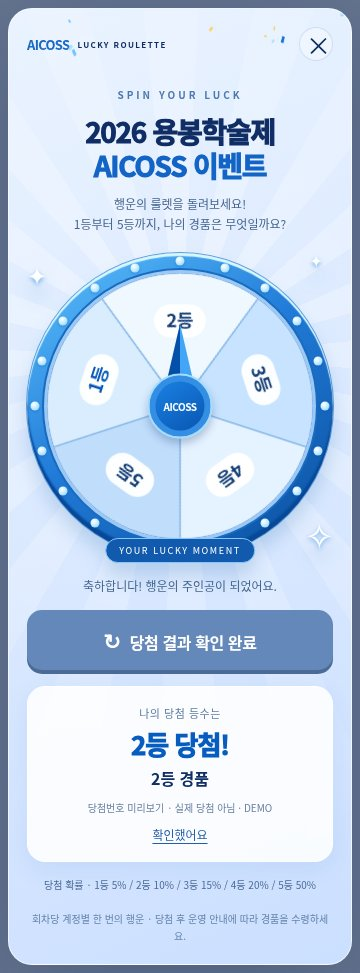
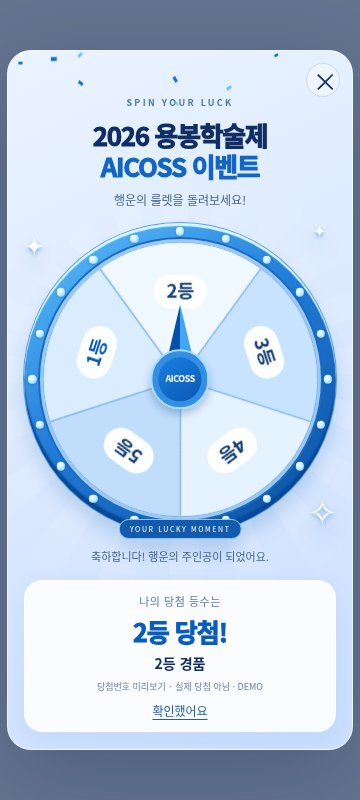
Enable guest roulette, fit mobile viewports and remove requested labels and odds notice

diff --git a/prize-draw/prize-draw.html b/prize-draw/prize-draw.html
@@ -1,13 +1,24 @@
 <!doctype html>
 <html lang="ko"><head><meta charset="utf-8"><meta name="viewport" content="width=device-width,initial-scale=1"><title>2026 용봉학술제 AICOSS 이벤트</title>
 <style>
-:root{color-scheme:light;--navy:#102e65;--blue:#1368cf;--sky:#dceaff}*{box-sizing:border-box}body{margin:0;font-family:"Pretendard","Apple SD Gothic Neo","Malgun Gothic",sans-serif;background:transparent;color:var(--navy)}button{font:inherit;cursor:pointer}button:focus-visible{outline:3px solid #001f57;outline-offset:5px}.backdrop{min-height:100vh;display:grid;place-items:center;padding:16px;background:#071e4b9e;backdrop-filter:blur(7px)}.card{isolation:isolate;position:relative;width:min(100%,520px);overflow:hidden;border-radius:30px;background:linear-gradient(155deg,#eaf3ff,#cbdfff);border:1px solid #ffffffb0;box-shadow:0 24px 100px #051f4c40;padding:22px 26px 24px}.rays{position:absolute;z-index:-1;width:1200px;height:1200px;left:50%;top:425px;transform:translate(-50%,-50%);background:repeating-conic-gradient(from -6deg,#ffffff65 0deg 9deg,transparent 9deg 18deg);mask-image:radial-gradient(circle,#000 0,transparent 62%);pointer-events:none}.top{display:flex;align-items:center;justify-content:space-between}.brand{font-size:10px;font-weight:800;letter-spacing:1.9px;display:flex;gap:8px;align-items:center}.brand b{font-size:15px;letter-spacing:-.7px;color:#1769c5}.close{width:34px;height:34px;border:1px solid #7ea6d84d;border-radius:50%;background:#ffffff65;color:var(--navy);font-size:25px;line-height:28px}.heading{text-align:center;margin:22px 0 8px}.eyebrow{font-size:10px;letter-spacing:3px;color:#4f78b0;font-weight:800}.heading h1{font-size:35px;letter-spacing:-1.8px;line-height:1.2;font-weight:950;margin:11px 0 12px;word-break:keep-all}.heading h1 span:last-child{color:#1264c7}.intro{font-size:13px;color:#45658f;line-height:1.65;margin:0}.wheel-stage{position:relative;width:min(100%,414px);aspect-ratio:1;margin:20px auto 18px;filter:drop-shadow(0 13px 9px #145da330)}.rim{position:absolute;inset:0;border-radius:50%;background:linear-gradient(145deg,#60c4ff,#217bd8 46%,#094d9c);box-shadow:inset 0 3px 1px #d9f7ff,inset 0 -6px 2px #084898,0 0 0 1px #1974cbaa;padding:21px}.wheel-inner{width:100%;height:100%;border-radius:50%;overflow:hidden;background:#dfefff;border:3px solid #9bc8f4;box-shadow:0 0 0 2px #186bc0,inset 0 0 0 1px #2c6bb4;position:relative}.rotor{display:block;width:100%;height:100%;transform:rotate(0deg);will-change:transform}.bulbs{position:absolute;inset:0;pointer-events:none}.bulb{position:absolute;width:11px;height:11px;border-radius:50%;background:radial-gradient(circle at 35% 30%,white,#bce9ff 55%,#73bdff);box-shadow:0 1px 3px #03459245;transform:translate(-50%,-50%)}.hub{position:absolute;top:50%;left:50%;transform:translate(-50%,-50%);height:78px;width:78px;border-radius:50%;display:grid;place-items:center;background:linear-gradient(145deg,#1c86e9,#0751ac);box-shadow:inset 0 0 0 6px #348ee3,0 5px 8px #052c6d44;border:2px solid #a3dcff;color:white;font-size:12px;font-weight:900;letter-spacing:-.5px;z-index:3}.needle{position:absolute;bottom:calc(50% + 20px);left:50%;transform:translateX(-50%);width:36px;height:78px;background:linear-gradient(90deg,#0450a9 0 50%,#42a5f7 50%);clip-path:polygon(50% 0,100% 100%,0 100%);filter:drop-shadow(0 3px 2px #173d7a66);z-index:2}.star{position:absolute;font-size:24px;color:#ffffff;filter:drop-shadow(0 2px 2px #6eade8);pointer-events:none}.star.a{left:0;top:4px}.star.b{right:-1px;bottom:0;font-size:35px}.star.c{right:10px;top:-5px;font-size:16px}.status{text-align:center;font-size:12px;color:#45658f;min-height:20px;margin:8px 0 14px;line-height:1.6}.spin{display:block;width:100%;padding:17px;border:0;border-radius:15px;background:linear-gradient(110deg,#164eac,#146fd2);box-shadow:0 5px 0 #093c87,0 10px 20px #1657ab25;color:white;font-size:18px;font-weight:850;letter-spacing:-.4px}.spin:disabled{cursor:default;background:#6488b9;box-shadow:0 4px 0 #4b6b97}.spin:not(:disabled):active{transform:translateY(3px);box-shadow:0 2px 0 #093c87}.spin .icon{margin-right:9px;font-size:21px}.result{padding:18px 18px 16px;background:#ffffffe0;border:1px solid white;border-radius:18px;text-align:center;margin:16px 0 0;box-shadow:0 7px 25px #1e69bb15}.result[hidden]{display:none}.result .caption{font-size:11px;color:#5e7ba3;letter-spacing:.5px}.rank{font-size:29px;font-weight:950;margin:4px 0;color:#075cbf;letter-spacing:-1px}.prize{font-size:16px;font-weight:800;overflow-wrap:anywhere}.receipt{font-size:10px;color:#6b82a2;line-height:1.7;overflow-wrap:anywhere;margin:9px 0 0}.done{border:0;background:transparent;color:#235eaa;font-size:12px;text-decoration:underline;text-underline-offset:3px;margin-top:9px}.odds{text-align:center;font-size:10px;color:#4b6b98;line-height:1.7;margin:14px 0 0}.footer{text-align:center;font-size:10px;line-height:1.7;color:#6685ad;margin:17px 0 0}.confetti{position:absolute;inset:0;width:100%;height:100%;pointer-events:none;z-index:10}.error .status{background:#fff8e9;border:1px solid #efdcb0;padding:10px;border-radius:10px;color:#85602a}.error .spin{display:none}.error .wheel-stage{opacity:.7}.badge{position:absolute;left:50%;bottom:-4px;transform:translateX(-50%);font-size:9px;letter-spacing:1.6px;color:#fff;background:#125aad;padding:5px 13px;border-radius:20px;white-space:nowrap;border:1px solid #85c7fa;z-index:4}@media(max-width:420px){.backdrop{padding:8px}.card{padding:18px 18px 20px;border-radius:24px}.heading{margin-top:19px}.heading h1{font-size:28px;letter-spacing:-1.3px}.brand{font-size:8px;letter-spacing:1.4px}.brand b{font-size:13px}.intro{font-size:12px}.rim{padding:17px}.wheel-stage{margin:19px auto 17px}.hub{width:65px;height:65px;font-size:10px}.needle{height:65px;width:30px;bottom:calc(50% + 17px)}.bulb{height:9px;width:9px}.rays{top:350px}.spin{font-size:16px;padding:15px}.rank{font-size:26px}}@media(max-height:700px) and (min-width:421px){.backdrop{align-items:start}.wheel-stage{width:330px}.heading{margin-top:12px}.heading h1{font-size:30px}.card{padding-top:16px}}@media(prefers-reduced-motion:reduce){.rotor{transition:none!important}.confetti{display:none}}
+:root{color-scheme:light;--navy:#102e65;--blue:#1368cf;--sky:#dceaff}*{box-sizing:border-box}body{margin:0;font-family:"Pretendard","Apple SD Gothic Neo","Malgun Gothic",sans-serif;background:transparent;color:var(--navy)}button{font:inherit;cursor:pointer}button:focus-visible{outline:3px solid #001f57;outline-offset:5px}.backdrop{min-height:100vh;display:grid;place-items:center;padding:16px;background:#071e4b9e;backdrop-filter:blur(7px)}.card{isolation:isolate;position:relative;width:min(100%,520px);overflow:hidden;border-radius:30px;background:linear-gradient(155deg,#eaf3ff,#cbdfff);border:1px solid #ffffffb0;box-shadow:0 24px 100px #051f4c40;padding:22px 26px 24px}.rays{position:absolute;z-index:-1;width:1200px;height:1200px;left:50%;top:425px;transform:translate(-50%,-50%);background:repeating-conic-gradient(from -6deg,#ffffff65 0deg 9deg,transparent 9deg 18deg);mask-image:radial-gradient(circle,#000 0,transparent 62%);pointer-events:none}.top{display:flex;align-items:center;justify-content:space-between}.brand{font-size:10px;font-weight:800;letter-spacing:1.9px;display:flex;gap:8px;align-items:center}.brand b{font-size:15px;letter-spacing:-.7px;color:#1769c5}.close{width:34px;height:34px;border:1px solid #7ea6d84d;border-radius:50%;background:#ffffff65;color:var(--navy);font-size:25px;line-height:28px}.heading{text-align:center;margin:22px 0 8px}.eyebrow{font-size:10px;letter-spacing:3px;color:#4f78b0;font-weight:800}.heading h1{font-size:35px;letter-spacing:-1.8px;line-height:1.2;font-weight:950;margin:11px 0 12px;word-break:keep-all}.heading h1 span:last-child{color:#1264c7}.intro{font-size:13px;color:#45658f;line-height:1.65;margin:0}.wheel-stage{position:relative;width:min(100%,414px);aspect-ratio:1;margin:20px auto 18px;filter:drop-shadow(0 13px 9px #145da330)}.rim{position:absolute;inset:0;border-radius:50%;background:linear-gradient(145deg,#60c4ff,#217bd8 46%,#094d9c);box-shadow:inset 0 3px 1px #d9f7ff,inset 0 -6px 2px #084898,0 0 0 1px #1974cbaa;padding:21px}.wheel-inner{width:100%;height:100%;border-radius:50%;overflow:hidden;background:#dfefff;border:3px solid #9bc8f4;box-shadow:0 0 0 2px #186bc0,inset 0 0 0 1px #2c6bb4;position:relative}.rotor{display:block;width:100%;height:100%;transform:rotate(0deg);will-change:transform}.bulbs{position:absolute;inset:0;pointer-events:none}.bulb{position:absolute;width:11px;height:11px;border-radius:50%;background:radial-gradient(circle at 35% 30%,white,#bce9ff 55%,#73bdff);box-shadow:0 1px 3px #03459245;transform:translate(-50%,-50%)}.hub{position:absolute;top:50%;left:50%;transform:translate(-50%,-50%);height:78px;width:78px;border-radius:50%;display:grid;place-items:center;background:linear-gradient(145deg,#1c86e9,#0751ac);box-shadow:inset 0 0 0 6px #348ee3,0 5px 8px #052c6d44;border:2px solid #a3dcff;color:white;font-size:12px;font-weight:900;letter-spacing:-.5px;z-index:3}.needle{position:absolute;bottom:calc(50% + 20px);left:50%;transform:translateX(-50%);width:36px;height:78px;background:linear-gradient(90deg,#0450a9 0 50%,#42a5f7 50%);clip-path:polygon(50% 0,100% 100%,0 100%);filter:drop-shadow(0 3px 2px #173d7a66);z-index:2}.star{position:absolute;font-size:24px;color:#ffffff;filter:drop-shadow(0 2px 2px #6eade8);pointer-events:none}.star.a{left:0;top:4px}.star.b{right:-1px;bottom:0;font-size:35px}.star.c{right:10px;top:-5px;font-size:16px}.status{text-align:center;font-size:12px;color:#45658f;min-height:20px;margin:8px 0 14px;line-height:1.6}.spin{display:block;width:100%;padding:17px;border:0;border-radius:15px;background:linear-gradient(110deg,#164eac,#146fd2);box-shadow:0 5px 0 #093c87,0 10px 20px #1657ab25;color:white;font-size:18px;font-weight:850;letter-spacing:-.4px}.spin:disabled{cursor:default;background:#6488b9;box-shadow:0 4px 0 #4b6b97}.spin:not(:disabled):active{transform:translateY(3px);box-shadow:0 2px 0 #093c87}.spin .icon{margin-right:9px;font-size:21px}.result{padding:18px 18px 16px;background:#ffffffe0;border:1px solid white;border-radius:18px;text-align:center;margin:16px 0 0;box-shadow:0 7px 25px #1e69bb15}.result[hidden]{display:none}.result .caption{font-size:11px;color:#5e7ba3;letter-spacing:.5px}.rank{font-size:29px;font-weight:950;margin:4px 0;color:#075cbf;letter-spacing:-1px}.prize{font-size:16px;font-weight:800;overflow-wrap:anywhere}.receipt{font-size:10px;color:#6b82a2;line-height:1.7;overflow-wrap:anywhere;margin:9px 0 0}.done{border:0;background:transparent;color:#235eaa;font-size:12px;text-decoration:underline;text-underline-offset:3px;margin-top:9px}.odds{text-align:center;font-size:10px;color:#4b6b98;line-height:1.7;margin:14px 0 0}.footer{text-align:center;font-size:10px;line-height:1.7;color:#6685ad;margin:17px 0 0}.confetti{position:absolute;inset:0;width:100%;height:100%;pointer-events:none;z-index:10}.error .status{background:#fff8e9;border:1px solid #efdcb0;padding:10px;border-radius:10px;color:#85602a}.error .spin,.card.complete .spin{display:none}.error .wheel-stage{opacity:.7}.badge{position:absolute;left:50%;bottom:-4px;transform:translateX(-50%);font-size:9px;letter-spacing:1.6px;color:#fff;background:#125aad;padding:5px 13px;border-radius:20px;white-space:nowrap;border:1px solid #85c7fa;z-index:4}@media(max-width:420px){.backdrop{padding:8px}.card{padding:18px 18px 20px;border-radius:24px}.heading{margin-top:19px}.heading h1{font-size:28px;letter-spacing:-1.3px}.brand{font-size:8px;letter-spacing:1.4px}.brand b{font-size:13px}.intro{font-size:12px}.rim{padding:17px}.wheel-stage{margin:19px auto 17px}.hub{width:65px;height:65px;font-size:10px}.needle{height:65px;width:30px;bottom:calc(50% + 17px)}.bulb{height:9px;width:9px}.rays{top:350px}.spin{font-size:16px;padding:15px}.rank{font-size:26px}}@media(max-height:700px) and (min-width:421px){.backdrop{align-items:start}.wheel-stage{width:330px}.heading{margin-top:12px}.heading h1{font-size:30px}.card{padding-top:16px}}@media(prefers-reduced-motion:reduce){.rotor{transition:none!important}.confetti{display:none}}
+
+html,body{height:100%;width:100%;overflow:hidden}.backdrop{height:100vh;height:100dvh;min-height:0;padding:clamp(6px,2vmin,16px);overflow:hidden}.card{max-height:100%;overflow-x:hidden;overflow-y:auto;overscroll-behavior:contain;scrollbar-width:thin;scrollbar-color:#9bbfe9 transparent;padding-top:20px;padding-bottom:20px}.top{position:absolute;top:12px;right:12px;z-index:12}.heading{margin-top:22px}.wheel-stage{flex:none}.rim{padding:5%}.hub{height:19%;width:19%;font-size:clamp(8px,2.5vw,12px)}.needle{bottom:55%;width:9%;height:19%}.bulb{width:2.65%;height:2.65%}.rays{width:100%;height:100%;inset:0;transform:none;background:repeating-conic-gradient(from -6deg at 50% 45%,#ffffff65 0deg 9deg,transparent 9deg 18deg)}.badge{font-size:8px;padding:4px 10px}.odds{margin-top:14px}.result{margin-top:13px}.intro{font-size:12px}
+@media(max-width:420px){.card{padding:14px 16px 17px}.heading{margin:22px 0 4px}.heading h1{font-size:clamp(23px,7.2vw,28px);margin:8px 0}.eyebrow{font-size:9px;letter-spacing:2.3px}.wheel-stage{margin-top:14px;margin-bottom:13px}.status{font-size:11px;margin:6px 0 10px}.spin{padding:13px;font-size:16px}.odds{font-size:9px;margin-top:12px}.result{padding:12px 10px 10px;margin-top:12px}.rank{font-size:25px}.prize{font-size:14px}.receipt{margin-top:6px;font-size:9px}.done{margin-top:6px}.badge{font-size:7px}}
+@media(max-height:500px) and (min-width:540px){.card{width:min(100%,850px);display:grid;grid-template-columns:minmax(180px,.95fr) 1fr;gap:7px 18px;padding:16px 25px}.top{display:block}.heading{grid-column:2;margin:9px 0 0}.heading .eyebrow{display:none}.heading h1{font-size:23px;margin:0 0 4px}.intro{font-size:10px}.wheel-stage{grid-column:1;grid-row:1 / span 5;width:min(100%,calc(100dvh - 58px));margin:auto}.status{grid-column:2;margin:0;font-size:10px}.spin{grid-column:2;padding:10px;font-size:14px}.result{grid-column:2;padding:8px;margin:0}.rank{font-size:22px}.prize{font-size:12px}.receipt{font-size:8px;margin-top:3px}.done{font-size:10px;margin-top:3px}.odds{grid-column:2;margin:0;font-size:9px}}
 </style></head><body>
-<div class="backdrop"><main class="card" role="dialog" aria-modal="true" aria-labelledby="title"><div class="rays"></div><header class="top"><div class="brand"><b>AICOSS</b><span>LUCKY ROULETTE</span></div><button class="close" aria-label="팝업 닫기">×</button></header><div class="heading"><span class="eyebrow">SPIN YOUR LUCK</span><h1 id="title"><span>2026 용봉학술제</span> <span style="display:block">AICOSS 이벤트</span></h1><p class="intro">행운의 룰렛을 돌려보세요!<br>1등부터 5등까지, 나의 경품은 무엇일까요?</p></div><div class="wheel-stage"><span class="star a" aria-hidden="true">✦</span><span class="star b" aria-hidden="true">✧</span><span class="star c" aria-hidden="true">✦</span><div class="rim"><div class="wheel-inner"><svg id="wheel" class="rotor" viewBox="0 0 400 400" role="img" aria-label="1등, 2등, 3등, 4등, 5등으로 동일하게 5분할된 원형 룰렛"></svg></div></div><div class="bulbs" aria-hidden="true"></div><div class="needle" aria-hidden="true"></div><div class="hub" aria-hidden="true">AICOSS</div><div class="badge" aria-hidden="true">YOUR LUCKY MOMENT</div></div><div class="status" id="statusText" role="status" aria-live="polite">이벤트 정보를 확인하고 있어요…</div><button id="spinButton" class="spin" disabled><span class="icon" aria-hidden="true">↻</span><span id="buttonText">준비 중…</span></button><section id="result" class="result" hidden aria-live="polite"><div class="caption" id="resultCaption">나의 당첨 등수는</div><div id="rank" class="rank"></div><div id="prize" class="prize"></div><p id="receipt" class="receipt"></p><button class="done">확인했어요</button></section><p class="odds">당첨 확률 · 1등 5% / 2등 10% / 3등 15% / 4등 20% / 5등 50%</p><p class="footer">회차당 계정별 한 번의 행운 · 당첨 후 운영 안내에 따라 경품을 수령하세요.</p><canvas class="confetti" aria-hidden="true"></canvas></main></div>
+<div class="backdrop"><main class="card" role="dialog" aria-modal="true" aria-labelledby="title"><div class="rays"></div><header class="top"><button class="close" aria-label="팝업 닫기">×</button></header><div class="heading"><span class="eyebrow">SPIN YOUR LUCK</span><h1 id="title"><span>2026 용봉학술제</span> <span style="display:block">AICOSS 이벤트</span></h1><p class="intro">행운의 룰렛을 돌려보세요!</p></div><div class="wheel-stage"><span class="star a" aria-hidden="true">✦</span><span class="star b" aria-hidden="true">✧</span><span class="star c" aria-hidden="true">✦</span><div class="rim"><div class="wheel-inner"><svg id="wheel" class="rotor" viewBox="0 0 400 400" role="img" aria-label="1등, 2등, 3등, 4등, 5등으로 동일하게 5분할된 원형 룰렛"></svg></div></div><div class="bulbs" aria-hidden="true"></div><div class="needle" aria-hidden="true"></div><div class="hub" aria-hidden="true">AICOSS</div><div class="badge" aria-hidden="true">YOUR LUCKY MOMENT</div></div><div class="status" id="statusText" role="status" aria-live="polite">이벤트 정보를 확인하고 있어요…</div><button id="spinButton" class="spin" disabled><span class="icon" aria-hidden="true">↻</span><span id="buttonText">준비 중…</span></button><section id="result" class="result" hidden aria-live="polite"><div class="caption" id="resultCaption">나의 당첨 등수는</div><div id="rank" class="rank"></div><div id="prize" class="prize"></div><p id="receipt" class="receipt"></p><button class="done">확인했어요</button></section><canvas class="confetti" aria-hidden="true"></canvas></main></div>
 <script>
 (function(){'use strict';
 var wheel=document.getElementById('wheel'),button=document.getElementById('spinButton'),buttonText=document.getElementById('buttonText'),card=document.querySelector('.card'),status=document.getElementById('statusText');
 var reduced=window.matchMedia('(prefers-reduced-motion: reduce)').matches,state='loading',requested=false,resultData=null,timer=null,fallback=null,received=false,confettiFrame=0;
+function fitLayout(){
+var stage=document.querySelector('.wheel-stage');if(window.matchMedia('(max-height:500px) and (min-width:540px)').matches){stage.style.width='';return;}
+var viewport=window.visualViewport?window.visualViewport.height:window.innerHeight,back=getComputedStyle(document.querySelector('.backdrop')),cs=getComputedStyle(card),remaining=viewport-parseFloat(back.paddingTop)-parseFloat(back.paddingBottom)-parseFloat(cs.paddingTop)-parseFloat(cs.paddingBottom)-4;
+Array.from(card.children).forEach(function(el){if(el===stage||el.hidden)return;var st=getComputedStyle(el);if(st.position==='absolute'||st.position==='fixed'||st.display==='none')return;remaining-=el.getBoundingClientRect().height+(parseFloat(st.marginTop)||0)+(parseFloat(st.marginBottom)||0);});
+var ss=getComputedStyle(stage);remaining-=(parseFloat(ss.marginTop)||0)+(parseFloat(ss.marginBottom)||0);var width=card.clientWidth-parseFloat(cs.paddingLeft)-parseFloat(cs.paddingRight);
+stage.style.width=Math.max(132,Math.min(414,width,remaining))+'px';}
+window.addEventListener('resize',fitLayout);if(window.visualViewport)window.visualViewport.addEventListener('resize',fitLayout);requestAnimationFrame(fitLayout);
 var ns='http://www.w3.org/2000/svg',fills=['#d9edff','#eff7ff','#c7e3ff','#e5f2ff','#c0ddfb'];
 function svg(tag,attrs,parent){var el=document.createElementNS(ns,tag);Object.keys(attrs).forEach(function(k){el.setAttribute(k,attrs[k]);});(parent||wheel).appendChild(el);return el;}
 function point(deg,r){var a=deg*Math.PI/180;return [200+Math.cos(a)*r,200+Math.sin(a)*r];}
@@ -17,9 +28,9 @@ function send(type){window.parent.postMessage({type:type},'*');}
 function close(){clearTimeout(timer);clearTimeout(fallback);cancelAnimationFrame(confettiFrame);state='closed';send('close');if(window.parent===window)document.querySelector('.backdrop').hidden=true;}
 document.querySelector('.close').onclick=close;document.querySelector('.done').onclick=close;document.querySelector('.close').focus();
 document.addEventListener('keydown',function(e){if(e.key==='Escape')close();if(e.key==='Tab'){var controls=[document.querySelector('.close')];if(!button.disabled&&button.offsetParent)controls.push(button);if(!document.getElementById('result').hidden)controls.push(document.querySelector('.done'));var first=controls[0],last=controls[controls.length-1];if(e.shiftKey&&document.activeElement===first){e.preventDefault();last.focus();}else if(!e.shiftKey&&document.activeElement===last){e.preventDefault();first.focus();}}});
-function notice(message){if(state==='closed'||state==='done')return;clearTimeout(timer);clearTimeout(fallback);state='error';card.classList.add('error');status.textContent=message;button.disabled=true;}
+function notice(message){if(state==='closed'||state==='done')return;clearTimeout(timer);clearTimeout(fallback);state='error';card.classList.add('error');status.textContent=message;button.disabled=true;fitLayout();}
 function celebrate(){if(reduced)return;var canvas=document.querySelector('.confetti'),ctx=canvas.getContext('2d'),w=card.clientWidth,h=card.clientHeight,dpr=Math.min(devicePixelRatio||1,2);canvas.width=w*dpr;canvas.height=h*dpr;ctx.scale(dpr,dpr);var colors=['#1672d6','#71c5ff','#fff','#acdfff','#f8d56c'];var bits=Array.from({length:90},function(_,i){return{x:Math.random()*w,y:-20-Math.random()*h*.7,vx:(Math.random()-.5)*1.8,vy:2+Math.random()*3,size:4+Math.random()*5,a:Math.random()*6,c:colors[i%colors.length]};});var start=performance.now(),last=start;function paint(t){if(state==='closed')return;var dt=Math.min(2,(t-last)/16.67);last=t;ctx.clearRect(0,0,w,h);bits.forEach(function(b){b.x+=b.vx*dt;b.y+=b.vy*dt;b.a+=.045*dt;ctx.save();ctx.translate(b.x,b.y);ctx.rotate(b.a);ctx.fillStyle=b.c;ctx.fillRect(-b.size/2,-b.size/2,b.size,b.size*.55);ctx.restore();});if(t-start<4300)confettiFrame=requestAnimationFrame(paint);else ctx.clearRect(0,0,w,h);}confettiFrame=requestAnimationFrame(paint);}
-function complete(d){if(state==='closed')return;clearTimeout(fallback);state='done';document.getElementById('resultCaption').textContent=d.repeated?'이미 당첨된 나의 경품':'나의 당첨 등수는';document.getElementById('rank').textContent=d.rank+' 당첨!';document.getElementById('prize').textContent=d.prize;document.getElementById('receipt').textContent='당첨번호 '+d.receipt+' · '+d.date;document.getElementById('result').hidden=false;status.textContent=d.repeated?'이전에 확인한 당첨 결과입니다.':'축하합니다! 행운의 주인공이 되었어요.';buttonText.textContent='당첨 결과 확인 완료';if(!d.repeated)celebrate();}
+function complete(d){if(state==='closed')return;clearTimeout(fallback);state='done';card.classList.add('complete');document.getElementById('resultCaption').textContent=d.repeated?'이미 당첨된 나의 경품':'나의 당첨 등수는';document.getElementById('rank').textContent=d.rank+' 당첨!';document.getElementById('prize').textContent=d.prize;document.getElementById('receipt').textContent='당첨번호 '+d.receipt+' · '+d.date;document.getElementById('result').hidden=false;fitLayout();status.textContent=d.repeated?'이전에 확인한 당첨 결과입니다.':'축하합니다! 행운의 주인공이 되었어요.';buttonText.textContent='당첨 결과 확인 완료';if(!d.repeated)celebrate();}
 function showResult(d){if(resultData||state==='closed'||state==='error')return;var index=Number(d.ball)-1;if(!Number.isInteger(index)||index<0||index>4){notice('당첨 결과를 확인할 수 없습니다. 창을 닫고 다시 확인해주세요.');return;}if(!requested&&!d.repeated)return;resultData=d;clearTimeout(fallback);var target=(360-index*72)%360;if(d.repeated||reduced){wheel.style.transition='none';wheel.style.transform='rotate('+target+'deg)';complete(d);return;}state='spinning';status.textContent='행운의 룰렛이 돌아갑니다…';buttonText.textContent='두근두근, 룰렛 회전 중';wheel.style.transition='transform 3000ms cubic-bezier(.16,.8,.18,1)';wheel.style.transform='rotate('+(1800+target)+'deg)';function stop(e){if(e&&e.target!==wheel)return;wheel.removeEventListener('transitionend',stop);if(state==='spinning'){clearTimeout(timer);complete(d);}}wheel.addEventListener('transitionend',stop);timer=setTimeout(function(){stop();},3100);}
 button.onclick=function(){if(state!=='idle'||requested)return;requested=true;state='waiting';button.disabled=true;buttonText.textContent='추첨 결과 확인 중…';status.textContent='잠시만 기다려주세요.';send('spin');fallback=setTimeout(function(){notice('결과 확인이 지연되고 있어요. 창을 닫고 오브젝트에서 다시 확인해주세요.');},25000);if(window.parent===window&&new URLSearchParams(location.search).get('preview')==='1'){setTimeout(function(){window.postMessage({type:'result',rank:'2등',ball:'2',prize:'2등 경품',receipt:'미리보기 · 실제 당첨 아님',date:'DEMO',repeated:false},'*');},120);}};
 window.addEventListener('message',function(e){if(e.source!==window.parent||state==='closed')return;var d=e.data;if(!d||typeof d!=='object')return;if(d.type==='notice'){received=true;notice(String(d.message||'잠시 후 다시 시도해주세요.'));return;}if(d.type==='loading'){received=true;return;}if(d.type==='idle'){received=true;if(!requested&&!resultData){state='idle';status.textContent='준비가 되셨나요? 버튼을 눌러 행운을 확인하세요.';buttonText.textContent='룰렛 돌리기';button.disabled=false;}return;}if(d.type==='mixing'){received=true;return;}if(d.type==='result'&&typeof d.rank==='string'&&typeof d.prize==='string'&&typeof d.receipt==='string'&&typeof d.date==='string'){received=true;showResult(d);}});

diff --git a/prize-draw/main.js b/prize-draw/main.js
@@ -32,6 +32,7 @@ var PRIZE_CONFIG = {
     var resetTickets = Object.create(null), ticketSerial = 0;
     var popups = Object.create(null);
     var exports = Object.create(null);
+    var guestIds = Object.create(null), guestSequence = 0;
     var hasOwn = function (o, k) { return Object.prototype.hasOwnProperty.call(o, k); };
     function object(o) { return o && typeof o === "object" && !Array.isArray(o); }
     function integer(n) { return typeof n === "number" && isFinite(n) && Math.floor(n) === n && n >= 0; }
@@ -60,13 +61,14 @@ var PRIZE_CONFIG = {
         return '"' + text.replace(/"/g, '""') + '"';
     }
     function exportWinners(p, data) {
-        var header = ["이벤트", "회차", "순번", "당첨번호", "등수", "경품명", "당첨일(KST)", "당첨시각(KST)", "계정 이메일 해시"];
+        var header = ["이벤트", "회차", "순번", "당첨번호", "등수", "경품명", "당첨일(KST)", "당첨시각(KST)", "참여자 식별값", "참여 유형"];
         var rows = [header];
         data.state.winners.forEach(function (w) {
             var r = rankById(w.rank);
             rows.push([C.eventId, "R" + data.state.round, w.no, C.eventId + "-R" + data.state.round + "-" + w.no,
                 r.name, C.prizeNames && C.prizeNames[w.rank] || r.name + " 경품", w.day,
-                new Date(w.at + 9 * 3600000).toISOString().slice(0, 19).replace("T", " "), w.user]);
+                new Date(w.at + 9 * 3600000).toISOString().slice(0, 19).replace("T", " "), w.user,
+                w.user.indexOf("guest:") === 0 ? "게스트" : "로그인 계정"]);
         });
         var csv = "\ufeff" + rows.map(function (row) { return row.map(csvCell).join(","); }).join("\r\n") + "\r\n";
         var now = Date.now(), safeName = C.eventId.replace(/[^a-zA-Z0-9_-]/g, "_").slice(0, 60);
@@ -110,8 +112,13 @@ var PRIZE_CONFIG = {
     }
     function day(ms) { return new Date(ms + 9 * 60 * 60 * 1000).toISOString().slice(0, 10); }
     function identity(p) {
-        if (p.isGuest !== false || typeof p.emailHash !== "string" || !p.emailHash) return null;
-        return p.emailHash;
+        // 기존 로그인 당첨자의 해시 키는 유지합니다.
+        if (p.isGuest !== true && typeof p.emailHash === "string" && p.emailHash) return p.emailHash;
+        if ((typeof p.id !== "string" && typeof p.id !== "number") || String(p.id) === "") return null;
+        var key = String(p.id);
+        // 비로그인은 현재 방문 동안만 식별. 클라이언트가 제출한 ID는 사용하지 않습니다.
+        if (!guestIds[key]) guestIds[key] = "guest:" + Date.now().toString(36) + "-" + (++guestSequence).toString(36) + "-" + Math.floor(Math.random() * 1e12).toString(36);
+        return guestIds[key];
     }
     function checkConfig() {
         if (!C.eventId || !C.drawMapId || C.drawMapId === "REPLACE_WITH_MAP_HASH_ID") throw Error("eventId와 drawMapId를 설정하세요.");
@@ -239,7 +246,7 @@ var PRIZE_CONFIG = {
                 if (job.kind === "winners") {
                     var start = (job.page - 1) * 10;
                     var rows = data.state.winners.slice(start, start + 10).map(function (w) {
-                        return "#" + w.no + " | " + rankById(w.rank).name + " | " + w.day + " | 계정해시 " + w.user;
+                        return "#" + w.no + " | " + rankById(w.rank).name + " | " + w.day + " | 참여자 " + w.user;
                     });
                     finish(job, "R" + data.state.round + " 당첨 기록 " + job.page + "페이지\n" + (rows.join("\n") || "기록 없음")); return;
                 }
@@ -292,7 +299,7 @@ var PRIZE_CONFIG = {
         if (stopped) { reject("추첨 점검 중입니다. 관리자에게 문의하세요."); return; }
         if (kind !== "draw" && kind !== "view" && !(p.role >= 3000)) { tell(p, "관리자 전용 명령입니다."); return; }
         var user = identity(p);
-        if (kind === "draw" && !user) { reject("ZEP 로그인 후 참여해주세요. 계정 식별 정보를 확인할 수 없습니다."); return; }
+        if (kind === "draw" && !user) { reject("플레이어 식별 정보를 확인할 수 없습니다. 맵에 다시 입장해주세요."); return; }
         var key = kind === "draw" ? "draw:" + user : (kind === "view" ? "view:" : "admin:") + String(p.id);
         if (pending[key]) { reject("이전 요청 처리 중입니다."); return; }
         if (queue.length >= C.maxQueue) { reject("참여자가 많습니다. 잠시 후 다시 시도해주세요."); return; }
@@ -352,7 +359,7 @@ var PRIZE_CONFIG = {
     });
     // 서버 이전 때 새 쓰기를 멈춥니다. 메모리를 재저장해 최신 원장을 덮어쓰지 않습니다.
     if (App.onMigrationStart && App.onMigrationStart.Add) App.onMigrationStart.Add(function () { fail("서버 이전 중입니다."); });
-    App.onLeavePlayer.Add(function (p) { closePopup(p); closeExport(p); });
+    App.onLeavePlayer.Add(function (p) { closePopup(p); closeExport(p); delete guestIds[String(p.id)]; });
     App.onDestroy.Add(function () {
         fail("앱이 종료되었습니다.");
         Object.keys(popups).forEach(function (key) { closePopup({ id: key }); });

diff --git a/prize-draw/prize-export.html b/prize-draw/prize-export.html
@@ -1,6 +1,6 @@
 <!doctype html><html lang="ko"><head><meta charset="utf-8"><meta name="viewport" content="width=device-width,initial-scale=1"><title>당첨 목록 내보내기</title><style>
 *{box-sizing:border-box}body{margin:0;font:14px "Apple SD Gothic Neo","Malgun Gothic",sans-serif;color:#20392e;background:transparent}.backdrop{min-height:100vh;display:grid;place-items:center;background:#102722ad;padding:16px}.card{width:min(100%,620px);border-radius:24px;background:#f6f5ef;padding:28px;box-shadow:0 20px 90px #11251b40}header{display:flex;align-items:center;justify-content:space-between}.eyebrow{font-size:10px;font-weight:bold;letter-spacing:2px;color:#70806b}h1{font-size:25px;letter-spacing:-1px;margin:16px 0 10px}p{line-height:1.7;color:#768173;font-size:13px}.close{background:transparent;border:1px solid #d7ddcf;border-radius:50%;width:32px;height:32px;font-size:22px;color:#20392e;cursor:pointer}.summary{padding:17px;background:#e8eddb;border-radius:12px;font-weight:700;margin:18px 0}.actions{display:flex;gap:8px;flex-wrap:wrap}button{font:inherit;cursor:pointer;border:0;border-radius:10px;padding:12px 18px;background:#203c30;color:white;font-weight:700}.secondary{background:#e4e9db;color:#203c30}button:disabled{opacity:.4;cursor:wait}button:focus-visible,textarea:focus-visible{outline:3px solid #829c42;outline-offset:3px}textarea{display:block;width:100%;min-height:160px;resize:vertical;margin-top:10px;background:white;border:1px solid #d4ddca;border-radius:10px;padding:12px;font:11px monospace;color:#35462d}details{margin-top:22px;color:#71806a;font-size:12px}summary{cursor:pointer}#status{min-height:24px}footer{font-size:11px;line-height:1.7;color:#8a9283;border-top:1px solid #dce1d3;padding-top:16px;margin-top:20px}@media(max-width:420px){.card{padding:20px}h1{font-size:22px}.backdrop{padding:8px}}</style></head><body>
-<div class="backdrop"><main class="card" role="dialog" aria-modal="true" aria-labelledby="title"><header><span class="eyebrow">PRIZE RECORDS</span><button class="close" id="close" aria-label="닫기">×</button></header><h1 id="title">당첨 목록 내보내기</h1><p>현재 회차의 당첨 기록을 문서로 보관하세요.<br>CSV 파일은 엑셀이나 스프레드시트에서 열 수 있습니다.</p><div class="summary" id="summary">당첨 기록을 불러오고 있어요…</div><div class="actions"><button id="download" disabled>CSV 다운로드</button><button class="secondary" id="copy" disabled>내용 복사</button></div><p id="status" role="status" aria-live="polite"></p><details id="fallback"><summary>다운로드·복사가 안 되나요? CSV 원문 보기</summary><p>아래 내용을 전체 선택해서 복사한 뒤 UTF-8 CSV 파일로 저장해주세요.</p><textarea id="csv" readonly aria-label="당첨 목록 CSV 원문" spellcheck="false"></textarea></details><footer id="generated"></footer><footer>현재 회차만 포함되며 초기화로 삭제된 기록은 복구되지 않습니다.<br>닉네임·이메일 원문은 저장하지 않아 계정 이메일 해시로 표시합니다.</footer></main></div>
+<div class="backdrop"><main class="card" role="dialog" aria-modal="true" aria-labelledby="title"><header><span class="eyebrow">PRIZE RECORDS</span><button class="close" id="close" aria-label="닫기">×</button></header><h1 id="title">당첨 목록 내보내기</h1><p>현재 회차의 당첨 기록을 문서로 보관하세요.<br>CSV 파일은 엑셀이나 스프레드시트에서 열 수 있습니다.</p><div class="summary" id="summary">당첨 기록을 불러오고 있어요…</div><div class="actions"><button id="download" disabled>CSV 다운로드</button><button class="secondary" id="copy" disabled>내용 복사</button></div><p id="status" role="status" aria-live="polite"></p><details id="fallback"><summary>다운로드·복사가 안 되나요? CSV 원문 보기</summary><p>아래 내용을 전체 선택해서 복사한 뒤 UTF-8 CSV 파일로 저장해주세요.</p><textarea id="csv" readonly aria-label="당첨 목록 CSV 원문" spellcheck="false"></textarea></details><footer id="generated"></footer><footer>현재 회차만 포함되며 초기화로 삭제된 기록은 복구되지 않습니다.<br>로그인 참여자는 이메일 해시, 비로그인 참여자는 게스트 방문 식별값으로 표시합니다.</footer></main></div>
 <script>
 (function(){'use strict';var packet=null,blobUrl=null;var download=document.getElementById('download'),copy=document.getElementById('copy'),raw=document.getElementById('csv'),status=document.getElementById('status');
 function send(type){window.parent.postMessage({type:type},'*');}function close(){if(blobUrl)URL.revokeObjectURL(blobUrl);send('close');if(window.parent===window)document.querySelector('.backdrop').hidden=true;}
